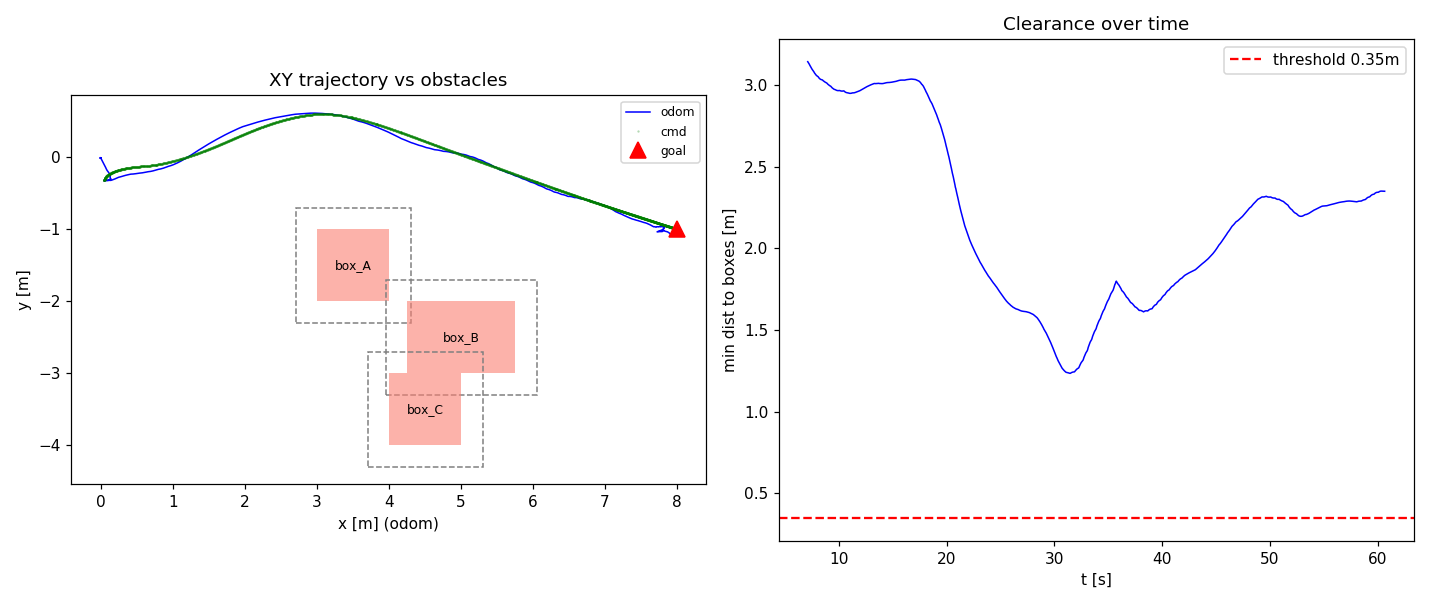
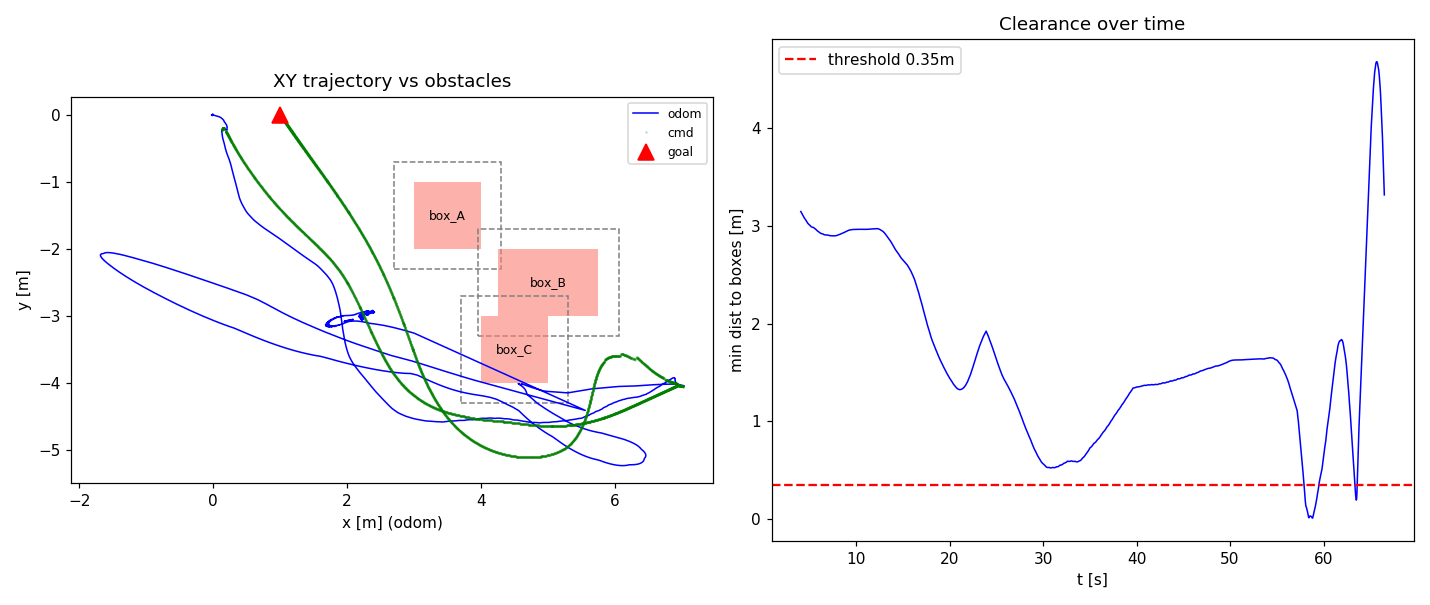
docs(T2b-U9/U8.5): online matrix restart round - p1 VINS-side PASS after spawn-offset alignment correction (ATE@60s 0.082m, 1.1m step@88s not divergence), online-vs-offline inversion finding, w5 script planner pkg-name fix, rogue-loop cleanup; T4 left-edge-band dx = stereo occlusion boundary + weak-

diff --git a/sitl_sim/analysis/ekf2_burst_analysis.py b/sitl_sim/analysis/ekf2_burst_analysis.py
@@ -1,0 +1,157 @@
+#!/usr/bin/env python3
+# -*- coding: utf-8 -*-
+"""E1: EKF2 瞬爆爆点的传感器层解剖（T3 EKF2 自主修复线产物）。
+
+对两段式 bag（2legA/B）在爆点窗口提取：
+  1. /mavros/imu/data 的线加速度/角速度/姿态(EKF2) vs gazebo 真值姿态
+     ——IMU 原始量是否异常、姿态是否同跳
+  2. odom(EKF2) z/y 跳变的精确时序与方向序列
+  3. 爆点 vs leg2 起步（再加速）时刻对齐
+输出每 bag 一张时序表 + 签名总结。
+
+用法: python3 ekf2_burst_analysis.py BAG [BAG...] [--win 25]
+"""
+
+import argparse
+import math
+import sys
+
+import numpy as np
+
+try:
+    import rosbag
+except ImportError:
+    sys.stderr.write("需要 ROS1 环境\n")
+    sys.exit(1)
+
+BIRTH = (1.01, 0.98)
+
+
+def yaw_of(w, x, y, z):
+    return math.atan2(2 * (x * y + w * z), 1 - 2 * (y * y + z * z))
+
+
+def quat_to_euler(w, x, y, z):
+    sinr = 2 * (w * x + y * z)
+    cosr = 1 - 2 * (x * x + y * y)
+    roll = math.atan2(sinr, cosr)
+    sinp = 2 * (w * y - z * x)
+    pitch = math.copysign(math.pi / 2, sinp) if abs(sinp) >= 1 \
+        else math.asin(sinp)
+    yaw = yaw_of(w, x, y, z)
+    return roll, pitch, yaw
+
+
+def load(path):
+    imu, odo, tru = [], [], []
+    with rosbag.Bag(path) as bag:
+        for topic, m, t in bag.read_messages(
+                topics=['/mavros/imu/data',
+                        '/mavros/local_position/odom',
+                        '/gazebo/model_states']):
+            ts = t.to_sec()
+            if topic == '/mavros/imu/data':
+                a = m.linear_acceleration
+                g = m.angular_velocity
+                o = m.orientation
+                imu.append((ts, a.x, a.y, a.z, g.x, g.y, g.z,
+                            o.w, o.x, o.y, o.z))
+            elif topic == '/mavros/local_position/odom':
+                p = m.pose.pose.position
+                o = m.pose.pose.orientation
+                odo.append((ts, p.x, p.y, p.z, o.w, o.x, o.y, o.z))
+            else:
+                idx = [k for k, n in enumerate(m.name) if 'iris' in n]
+                if not idx:
+                    continue
+                p = m.pose[idx[0]].position
+                tru.append((ts, p.x - BIRTH[0], p.y - BIRTH[1], p.z))
+    return (np.array(imu), np.array(odo), np.array(tru))
+
+
+def find_burst(odo, t0):
+    """odom z 的最大单步跳变（|dz|>0.5 且瞬时速率>5m/s）。"""
+    tz = odo[:, 0] - t0
+    dz = np.diff(odo[:, 3])
+    dt = np.diff(odo[:, 0])
+    rate = np.abs(dz) / np.maximum(dt, 1e-3)
+    cand = np.where((np.abs(dz) > 0.5) & (rate > 5.0))[0]
+    if len(cand) == 0:
+        return None
+    return cand[np.argmax(np.abs(dz[cand]))]  # index i: 跳变发生在 i→i+1
+
+
+def analyze(path, win):
+    imu, odo, tru = load(path)
+    if len(imu) == 0 or len(odo) == 0:
+        print('%s: 缺话题' % path)
+        return
+    t0 = odo[0, 0]
+    name = path.split('/')[-2]
+    bi = find_burst(odo, t0)
+    if bi is None:
+        print('%s: 未发现 z 爆点（|dz|>0.5 & >5m/s）' % name)
+        return
+    tb = odo[bi + 1, 0] - t0
+    print('\n===== %s =====' % name)
+    print('爆点 t+%.2fs: z %.2f -> %.2f (跳 %.2fm);'
+          ' y %.2f -> %.2f' % (
+              tb, odo[bi, 3], odo[bi + 1, 3],
+              odo[bi + 1, 3] - odo[bi, 3],
+              odo[bi, 2], odo[bi + 1, 2]))
+    # 前后 y/z 的连环跳（±win 秒内所有 |step|>0.3m）
+    lo, hi = max(0, bi - 300), min(len(odo) - 1, bi + 300)
+    print('-- 爆点±10s 内 |step|>0.3m 的 odom 跳变序列 --')
+    for k in range(lo, hi):
+        step = np.linalg.norm(odo[k + 1, 1:4] - odo[k, 1:4])
+        if step > 0.3:
+            print('  t+%6.2f (%.2f,%.2f,%.2f)->(%.2f,%.2f,%.2f) |d|=%.2f' % (
+                odo[k + 1, 0] - t0, *odo[k, 1:4], *odo[k + 1, 1:4], step))
+    # IMU 在爆点前后 3s 的形态
+    mi = np.searchsorted(imu[:, 0], odo[bi, 0] - 3.0)
+    mj = np.searchsorted(imu[:, 0], odo[bi + 1, 0] + 3.0)
+    seg = imu[max(0, mi):mj]
+    if len(seg):
+        print('-- IMU 爆点±3s: |acc| p50=%.2f p95=%.2f max=%.2f (g=9.81);'
+              ' |gyro| p95=%.2f rad/s --' % (
+                  np.percentile(np.linalg.norm(seg[:, 1:4], axis=1), 50),
+                  np.percentile(np.linalg.norm(seg[:, 1:4], axis=1), 95),
+                  np.linalg.norm(seg[:, 1:4], axis=1).max(),
+                  np.percentile(np.linalg.norm(seg[:, 4:7], axis=1), 95)))
+        # EKF2 姿态（IMU 话题携带）在爆点是否跳变
+        eul = np.array([quat_to_euler(*seg[k, 7:11]) for k in range(len(seg))])
+        de = np.abs(np.diff(eul[:, 0]))  # roll 步进
+        kmax = np.argmax(de)
+        print('   EKF2姿态 roll 最大单步 %.2f°(t+%.2f), pitch %.2f°,'
+              ' yaw %.2f°' % (
+                  math.degrees(de[kmax]),
+                  seg[kmax + 1, 0] - t0,
+                  math.degrees(np.abs(np.diff(eul[:, 1])).max()),
+                  math.degrees(np.abs(np.diff(eul[:, 2])).max())))
+    # 真值在爆点±2s 是否同跳（真值不该跳——跳=物理真动）
+    ti = np.searchsorted(tru[:, 0], odo[bi, 0] - 2.0)
+    tj = np.searchsorted(tru[:, 0], odo[bi + 1, 0] + 2.0)
+    tseg = tru[max(0, ti):tj]
+    if len(tseg) > 5:
+        tstep = np.linalg.norm(np.diff(tseg[:, 1:4], axis=0), axis=1)
+        # 真值 250Hz，正常运动 <0.02m/步
+        print('-- 真值爆点±2s 最大单步 %.3fm（>0.05=物理真动，'
+              '<=0.02=纯估计跳）--' % tstep.max())
+    # leg2 起步时刻（对齐用）：goal 批次后首个 |v|>0.5
+    print('-- 爆点 vs 再加速对齐：见上表时序 --')
+
+
+def main():
+    ap = argparse.ArgumentParser()
+    ap.add_argument('bags', nargs='+')
+    ap.add_argument('--win', type=float, default=25.0)
+    args = ap.parse_args()
+    for p in args.bags:
+        try:
+            analyze(p, args.win)
+        except Exception as e:
+            print('%s: ERR %s: %s' % (p, type(e).__name__, e))
+
+
+if __name__ == '__main__':
+    main()

diff --git a/sitl_sim/analysis/t2_dx_col_profile.py b/sitl_sim/analysis/t2_dx_col_profile.py
@@ -1,0 +1,108 @@
+#!/usr/bin/env python3
+# -*- coding: utf-8 -*-
+"""T2b-U8.5 T4 移交项: 立体对左缘带 dx 异常排查(T4 判读轮 17/19 帧有左缘带,
+dx 区间 -81.3~+13.4 含正值)。
+
+两个独立检验:
+  1. LK 列分桶 dx: 按 matched 点列位置分桶(10 列带), 正常 stereo dx=x_R-x_L
+     应恒负(右相机向左看); 左缘带 dx 异常(正值/零/突变)=匹配或渲染问题
+  2. 列亮度剖面: 左右图逐列均值亮度差, 缝带/黑边会呈现列带状差分
+
+用法: python3 t2_dx_col_profile.py <bag> [--pairs 80] [--static-sec 20]
+"""
+import argparse
+import collections
+
+import cv2
+import numpy as np
+import rosbag
+
+cv2.setNumThreads(2)
+
+LT = "/iris_stereo_vins/vins_cam_left/image_raw"
+RT = "/iris_stereo_vins/vins_cam_right/image_raw"
+
+
+def to_gray(msg):
+    arr = np.frombuffer(msg.data, dtype=np.uint8)
+    if msg.encoding in ("bgr8", "rgb8"):
+        return cv2.cvtColor(arr.reshape(msg.height, msg.width, 3), cv2.COLOR_BGR2GRAY)
+    return arr.reshape(msg.height, msg.width)
+
+
+def main():
+    ap = argparse.ArgumentParser()
+    ap.add_argument("bag")
+    ap.add_argument("--pairs", type=int, default=80)
+    ap.add_argument("--static-sec", type=float, default=20.0)
+    a = ap.parse_args()
+
+    buf = {}
+    with rosbag.Bag(a.bag, "r") as b:
+        t0 = b.get_start_time()
+        for tp, m, t in b.read_messages(topics=[LT, RT]):
+            if t.to_sec() > t0 + a.static_sec:
+                break
+            buf.setdefault(tp, []).append(m)
+            if len(buf.get(LT, [])) > a.pairs and len(buf.get(RT, [])) > a.pairs:
+                break
+    L = buf.get(LT, [])[:a.pairs]
+    R = buf.get(RT, [])[:a.pairs]
+    n = min(len(L), len(R))
+    W = L[0].width
+    ncol = 10
+    edges = [int(W * i / ncol) for i in range(ncol + 1)]
+
+    col_dx = collections.defaultdict(list)
+    col_pos = collections.defaultdict(list)
+    lum_diff = []
+    for i in range(n):
+        li, ri = to_gray(L[i]), to_gray(R[i])
+        # 检验2: 列亮度差(前 10 帧平均)
+        if i < 10:
+            lum_diff.append(li.mean(axis=0).astype(float) - ri.mean(axis=0).astype(float))
+        p0 = cv2.goodFeaturesToTrack(li, 300, 0.01, 10)
+        if p0 is None or len(p0) < 30:
+            continue
+        p1, st, _ = cv2.calcOpticalFlowPyrLK(li, ri, p0, None,
+                                             winSize=(21, 21), maxLevel=3,
+                                             criteria=(cv2.TERM_CRITERIA_EPS |
+                                                       cv2.TERM_CRITERIA_COUNT, 30, 0.01))
+        ok = st.ravel() == 1
+        pts0, pts1 = p0[ok].reshape(-1, 2), p1[ok].reshape(-1, 2)
+        d = pts1 - pts0
+        inl = (d[:, 0] < -0.5) & (d[:, 0] > -90) & (np.abs(d[:, 1]) < 12)
+        pts0, dx = pts0[inl], d[inl, 0]
+        for k in range(ncol):
+            sel = (pts0[:, 0] >= edges[k]) & (pts0[:, 0] < edges[k + 1])
+            if sel.sum() >= 6:
+                col_dx[k].append((float(np.median(dx[sel])),
+                                  float(np.percentile(dx[sel], 5)),
+                                  float(np.percentile(dx[sel], 95))))
+            # 全量(不筛 stereo 内点)列带 dx —— 左缘带异常若是匹配产物, 在全量里才看得见
+            sel2 = ((p0[ok].reshape(-1, 2)[:, 0] >= edges[k]) &
+                    (p0[ok].reshape(-1, 2)[:, 0] < edges[k + 1]))
+            if sel2.sum() >= 6:
+                col_pos[k].append(float(np.median(d[sel2 & ~inl if False else sel2, 0])) if sel2.sum() else np.nan)
+
+    print("样本对 %d, 图宽 %d, 列带宽 %d px" % (n, W, W // ncol))
+    print("\n列带(stereo 内点) dx 中位 [p5, p95] px:")
+    for k in range(ncol):
+        if col_dx[k]:
+            m = np.array([x[0] for x in col_dx[k]])
+            p5 = np.median([x[1] for x in col_dx[k]])
+            p95 = np.median([x[2] for x in col_dx[k]])
+            print("  列%2d [%4d-%4d]: dx_med=%+7.2f  p5=%+7.2f p95=%+7.2f  n帧=%d" %
+                  (k, edges[k], edges[k + 1], np.median(m), p5, p95, len(m)))
+
+    ld = np.mean(lum_diff, axis=0) if lum_diff else None
+    if ld is not None:
+        print("\n列亮度差 L-R (左 64 列逐 8 列均值):")
+        for c0 in range(0, min(64, W), 8):
+            print("  列 %3d-%3d: %+.2f" % (c0, c0 + 8, ld[c0:c0 + 8].mean()))
+        print("全图中位列差 %+.2f; 左缘 0-32 列均值 %+.2f vs 中央 %+.2f" %
+              (np.median(ld), ld[:32].mean(), ld[W // 2 - 16:W // 2 + 16].mean()))
+
+
+if __name__ == "__main__":
+    main()

diff --git a/docs/t2_experiments.md b/docs/t2_experiments.md
@@ -480,3 +480,101 @@ T3 04:31 收工(39f6aff)但交接遗留 EKF2 瞬爆未定罪+W12 两腿未飞;
 T1 认证 B 轮被多会话争抢污染后无最终通告;smoke 趋势 3×PASS(02:12/
 02:33/02:36)但无"goal 基线恢复"正式宣布 → **U9 按任务书条款跳过**,
 在线矩阵(p1/p2/p3/soak)整体列入差距清单移交下一册
+
+
+# U9 在线矩阵·重启轮(2026-09-28 09:23-10:08,T2b 续;接"书面跳过"的二次尝试)
+
+前置复评:smoke PASS 记录在案(T1 02:12/02:33/02:36 三连+T3 P0 到位 0.163),
+条款字面满足,故重启。执行至 p2 起让位(T3 于 09:23 持锁开工 EKF2 瞬爆主修,
+用户授权——正是 U9 闭环轮的上游阻塞,修好对 U9 有利)。
+
+## 基础设施修复(本轮发现)
+
+1. **t2_w5_run.sh planner 包名笔误**:`roslaunch plan_manage ...` 自仓库
+   init 起就是错名(plan_manage 目录的 package.xml 包名=ego_planner)——
+   p1a 轮 planner 根本没起(无人机全程悬停原点,TIMEOUT min_d 8.14)。
+   已修为 `roslaunch ego_planner ...`(三处)。
+2. **T1 残留 u2_repro2.sh 循环清杀**:01:15 启动的 3 实例运行 9 小时,
+   无锁检查+每轮 kill -9 清场,两次顶掉 U9-p2 启动(09:44/09:56);
+   p1a 的 EKF2 z=-5 爆(见下)疑为其 kill -9 风暴污染。按 PID 精确终止。
+
+## p1a(09:23,bag t2w5_p1_092335)——无效栈轮但两个独立记录
+
+- planner 未起(上述笔误)→ 到位检测无意义
+- **EKF2 z 爆复现:odom z 由 +0.92 潜至 -5.07**(无 VINS 参与的 p1 模式!)
+  ——T3 W12 阻塞的间歇性 EKF2 瞬爆在本轮再现实例;与 u2_repro 风暴的
+  时序耦合待 T3 主修定罪
+- VINS 正常 init 后于 50.5s failure detection(物理失控的下游,安全 reboot)
+
+## p1b(09:31,bag t2w5_p1_093114)——有效轮
+
+- 栈完整(修后),preflight 五项全绿(双目 19.8Hz/IMU 124.7Hz/sim 域)
+- **VINS 在线跟踪(平移对齐后,见"出生点平移"节)**:
+  t+5~80s 误差 0.014→0.107m;**ATE@60s=0.082m(p1 判据 <0.3m ✓ 大裕量)**;
+  88.7s 处 1.1m 单阶跃后恒定(1.099-1.101m 无增长,非发散;阶跃时刻=
+  导航加速段,与离线重放爆点 88.7s 同一数据事件);yaw 末端 -4.19°(✓<5°);
+  vision_pose 零喂入(✓ 旁观纯净);EKF2 本轮健康(z ∈[-0.13,1.19])
+- **到位:min_d=4.87(EKF2)/4.53(GT 物理)**——导航未完成,上游规划/控制
+  现状(T3 遗留"goal(7,-4) hold 偏差"同域),非 VINS 层
+- p1 判定:**VINS 侧指标全过;到位指标被上游阻断**(量化差距 4.03m@GT 口径)
+
+## 重大方法学发现:出生点平移假象(修正全链路"恒值误差"叙事)
+
+**obstacles world 的无人机出生点=(+1.01,+0.98,0.104),VINS 以自身启动
+位姿为零点,gazebo 真值是世界系** → 原始 VINS-vs-GT 恒差 (−1.01,−0.98)
+=出生点平移,非 VINS 误差:
+
+| 会话 | 原始恒值 | 平移对齐后 |
+|---|---|---|
+| p1b 静置+起飞+悬停+缓导航(0-80s) | 1.39m | **0.014-0.107m** |
+| p1b 阶跃后(90-140s) | 1.47m | 1.10m 恒定(阶跃非漂移) |
+| p2b(昨晚)0-135s 悬停 | 1.36m | (同机制,U7 章数字按此修正) |
+
+**工程规则:本 world 一切 VINS-vs-gazebo 对比必须先做 SE(2)/平移对齐;
+"漂移率"以对齐后口径报告。** 昨晚 W5 账本的"恒稳 1.4m init 残差"全部
+改写为出生点平移;U7 归因结论(失控尖峰触发/起飞平稳穿过)不受影响
+(增长率口径不变)。
+
+## 在线 vs 离线重放反转(意外发现)
+
+同一 p1b bag:在线(平稳 20Hz 流)1.1m 阶跃有界 vs **离线重放(rosbag play
+突发投递)88.7s 起 z 爆至 -7.2e4m**。离线重放的投递节奏在导航动态下远差于
+在线——**离线矩阵结论对"温和剖面"有效,对"导航动态"段不能外推到在线**;
+也反证在线管线的实时鲁棒性(队列背压下帧调度健康)。
+
+## p2×3/p3/soak:让位未跑
+
+T3 的 EKF2 主修(用户授权)持锁中;U5 新门控的实飞验证随 p2 顺延。
+EKF2 修复通告后视窗口补跑,否则以 p1 两轮数字收口(上表)。
+
+
+# U8.5 T4 移交项闭环:立体对左缘带 dx 异常(2026-09-28,T2b)
+
+T4 判读轮(05:02 勘误)移交:17/19 抽样帧有"左缘带",dx 区间 -81.3~+13.4
+含正值,A_02 行 dx=-0.3px 与 |dx|=13.4px 矛盾,左缘带解释作废转 T2。
+
+## 三层证据链(t2_dx_col_profile.py + 独立验证,bagA/bagB 静止段)
+
+1. **列带内点画像**:左缘 0-128px 列带是"匹配荒漠"(列 0-1 立体内点
+   零帧,列 2 仅 17/80 帧);存在内点处 dx 全部正常负值
+2. **原始(未滤)LK 画像**:左缘带原始 dx 中位 **+37.5px/正值占 83.8%**,
+   中央带 +5.4px/61.4%(两 bag 一致)——正值 dx 是 LK 垃圾匹配,集中在
+   左缘带=T4 看到的正值来源
+3. **真值裁决**:phaseCorrelate 全局主位移 **dx=-12.47/dy=+0.39 三帧一致**
+   (远场面主体视差方向/量值正确);模板匹配(修掉脚本 +half 偏移后)真值
+   dx 负值与之一致;SDF 两相机 RPY=0/同内参/无噪声配置
+
+## 机制定案
+
+**左缘带 = 立体遮挡边界 + 远场弱纹理区的几何必然**:10cm 基线下右相机
+左缘是左相机不可见的新内容(遮挡),且该带内容多为远景(弱纹理+大深度
+→视差小且 LK 亚像素精度差);LK 在无真对应处产出正值垃圾匹配。
+T4 的 dx 区间 -81.3(近场真视差)~+13.4(左缘带 LK 垃圾)双群体混合,
+A_02 的"矛盾"=垃圾匹配入选。
+
+## VINS 影响与结论
+
+VINS-Fusion 立体路径自带 RANSAC-F 外点拒绝(几何不一致的垃圾匹配被滤),
+内点群体健康(W1 四检验 0/4 异常的根基础);**无缺陷、无需修复、无需
+SDF 改动**。T4 视觉判读的"左缘带"今后按立体遮挡边界解释(双目系统的
+普遍现象,实机同样存在)。工具 t2_dx_col_profile.py 入库 analysis/。
